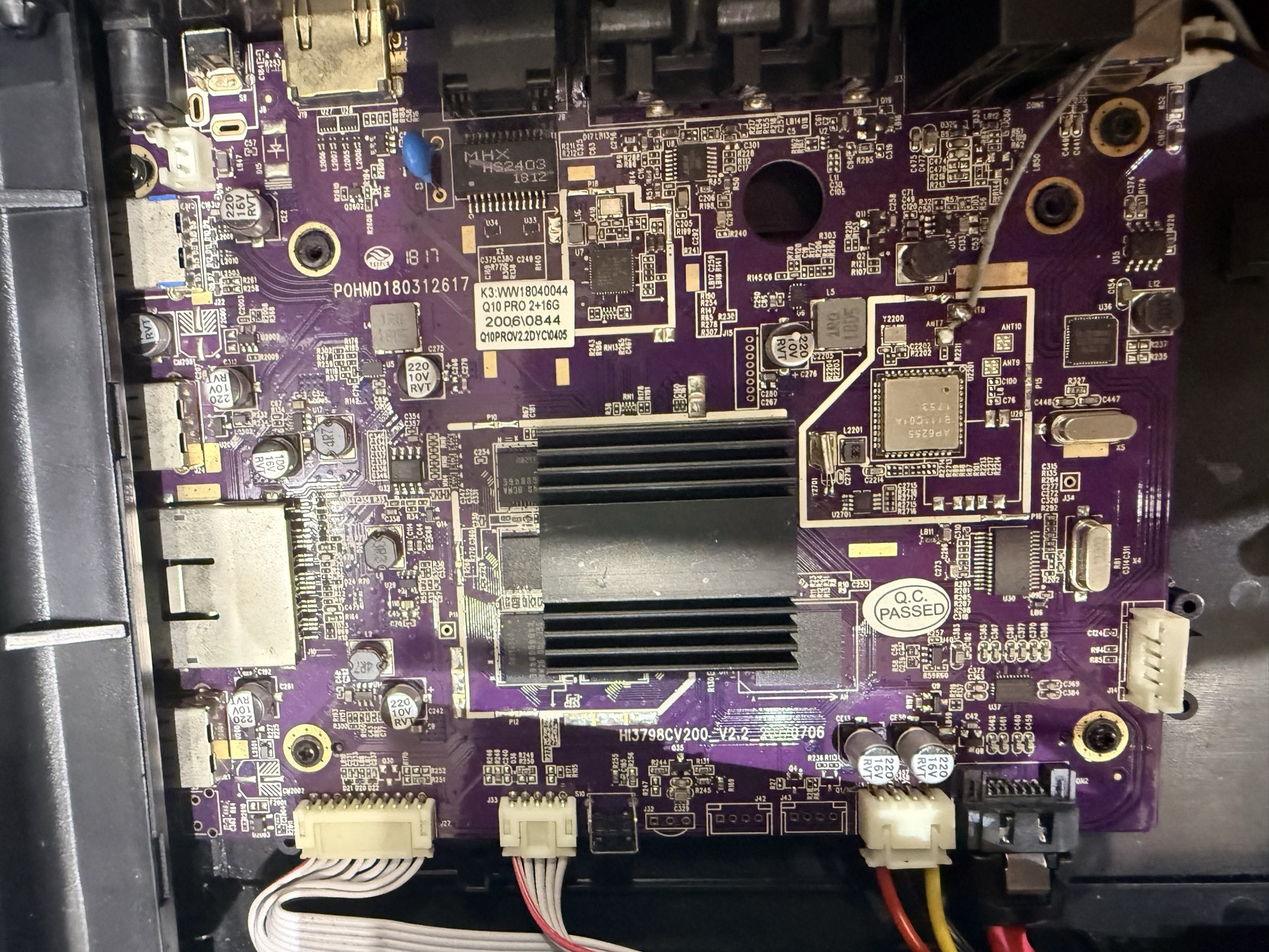
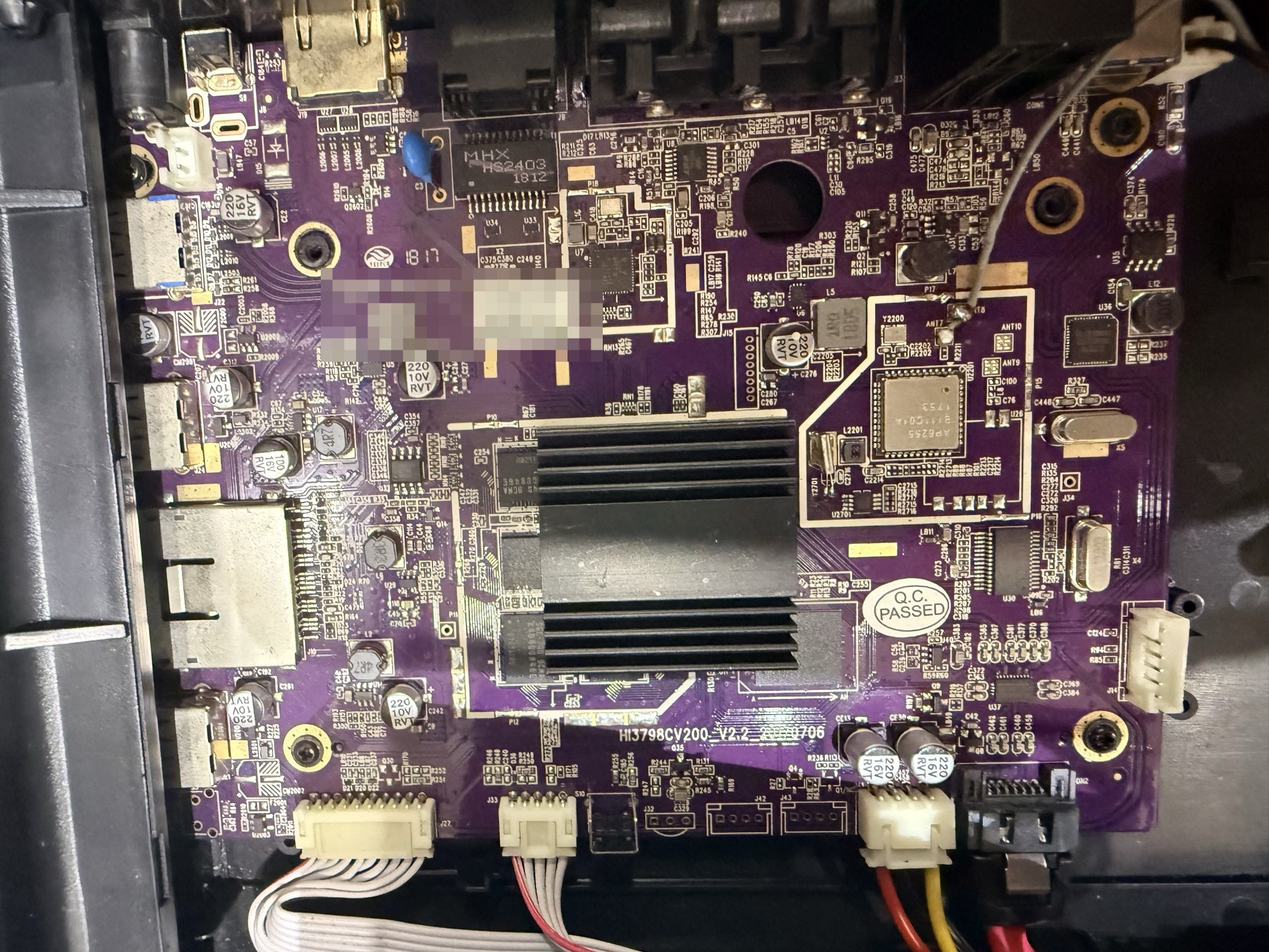
docs: README opens with the box's screens (hero + 12-picture gallery); remove two retailer product shots (third-party images); pixelate the unit label and board serial in the board photo and its note

Changed region(s): [[0.2489, 0.28, 0.4978, 0.4044]]

diff --git a/README.md b/README.md
@@ -1,11 +1,30 @@
 # HiMedia Q10 Pro on mainline Linux
 
+![The Q10 Pro's TV menu on mainline Linux: Desktop, Music, Kodi, Web, Android 13](docs/screenshots/menu.webp)
+
 Mainline **Linux 6.18** on the **HiMedia Q10 Pro** TV box (HiSilicon **Hi3798CV200**, 4× Cortex-A53,
 2 GB RAM, 3.5" SATA bay), running **Debian trixie (armhf)**. The box was brought up with **no serial
 console**. This repo holds what that took: the kernel patch series, the device tree, the build and
 bring-up tools, the TV session switcher, and the research notes behind each step.
 
 Every result below was measured on the box. Where a note only infers something, it says so.
+
+## Screenshots
+
+Captured from the box's own HDMI output (1080p, scaled down). Every screen below is mainline Linux on this box.
+
+| | |
+|---|---|
+| ![LXQt desktop with the start menu open](docs/screenshots/desktop.webp) | ![LXQt file manager (PCManFM-Qt) browsing the root filesystem](docs/screenshots/files.webp) |
+| **Desktop:** LXQt, GPU-accelerated through glamor, 293 MB in use | File manager (PCManFM-Qt), two windows, taskbar |
+| ![Kodi 21.2 Omega splash](docs/screenshots/kodi.webp) | ![Chromium full screen in the Web session](docs/screenshots/web.webp) |
+| **Kodi** 21.2 on GBM + GLES, V4L2-request hardware decode | **Web:** Chromium full screen on Wayland, video handed to a hardware mpv |
+| ![Android 13 lock screen](docs/screenshots/android13.webp) | ![Music mode idle screen](docs/screenshots/audio-ready.webp) |
+| **Android 13** (LineageOS 20 in Waydroid), launcher in 100 s from SATA | **Music:** AirPlay 2, Spotify Connect, UPnP, web library (LAN address pixelated) |
+| ![Now playing: FLAC 24/96, resampled to 48 kHz for the onboard output](docs/screenshots/nowplaying.webp) | ![kmscube rendered by the Mali-T720](docs/screenshots/kmscube.webp) |
+| Now playing: the screen says when the onboard 48 kHz path resamples | **GPU:** Panfrost on the Mali-T720, kmscube at 59.9 fps |
+| ![ffmpeg test pattern frame 150 decoded by the hardware VDEC](docs/screenshots/hwdec-after.webp) | ![The Q10 Pro mainboard, serial sticker pixelated](docs/photos/q10pro-mainboard-v2.2-ap6255.jpg) |
+| **Hardware decode:** frame 150 of the test pattern, md5-identical to software | The board: Hi3798CV200 under the heatsink, AP6255 WiFi, SATA header (serial pixelated) |
 
 ## What works
 

diff --git a/docs/261010-himedia-boot-ladder-results.md b/docs/261010-himedia-boot-ladder-results.md
@@ -101,8 +101,8 @@ passes every check and never loads.
 
 ## Board (box opened by Tim; two photos)
 
-`HI3798CV200_V2.2_20170706` · label `K3:WW18040044 / Q10 PRO 2+16G / Q10PROV2.2DYC` · serial
-`POHMD180312617` · **2 GB RAM / 16 GB eMMC** (so `mem=1993M` is sane) · `AP6255` (BCM43455
+`HI3798CV200_V2.2_20170706` · label `<unit-label> / Q10 PRO 2+16G / Q10PROV2.2…` · serial
+`<board-serial>` · **2 GB RAM / 16 GB eMMC** (so `mem=1993M` is sane) · `AP6255` (BCM43455
 WiFi/BT, SDIO, `1753`) · `MHX HS2403 1812` · SATA data + 4-pin power **populated**.
 Unpopulated headers: **`J32` 3-pin at the bottom edge** (near `Q35/R244/R245`), **`J15` 9-pin row**
 mid-board, `J42`/`J43` 4-pin, `S10` switch footprint. Function **not identified** from a photo.

diff --git a/docs/photos/README.md b/docs/photos/README.md
@@ -2,8 +2,6 @@
 
 | File | What it shows | Source |
 | --- | --- | --- |
-| `q10pro-rear-panel-ports.png` | rear: fan, WiFi antenna, USB3.0, optical, coaxial, RCA video + L/R, LAN, HDMI 1.4, UPGRADE pinhole, DC 12V | product shot (retailer, Thien Ha Audio) |
-| `q10pro-front-panel-vfd-keys.png` | front: VFD clock/status display, IR window, 8 touch keys (◀ ▲ ▶ ▼ OK, back, menu, power) | product shot |
 | `q10pro-mainboard-v2.2-ap6255.jpg` | this unit's mainboard `HI3798CV200_V2.2_20170706`; WiFi module **AP6255**; label `Q10 PRO 2+16G` | Tim, box opened 2026-10-10 |
 | `q10pro-front-panel-board-and-sata.jpg` | front-panel board (VFD driver chip at right, unread), its ribbon cables, the SATA data + power leads | Tim, box opened 2026-10-10 |
 
